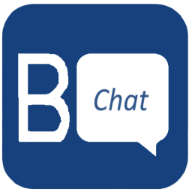
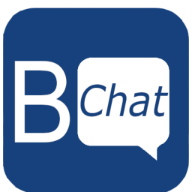
Desing Fix

Changed region(s): [[0.0625, 0.25, 0.9062, 0.8438], [0.0, 0.0, 1.0, 1.0], [0.25, 0.5312, 0.2812, 0.5625]]

diff --git a/public/style.css b/public/style.css
@@ -210,7 +210,7 @@ footer.footer {
 
 /* Responsive Image */
 .ProductLogo {
-  
+  padding: 2px;
   border-radius: 10px;
   background-color: #f8f9fa;
   position: absolute;
@@ -323,3 +323,4 @@ footer.footer {
 .text {
   padding: 0 10px; /* Adjust padding as needed */
 }
+
